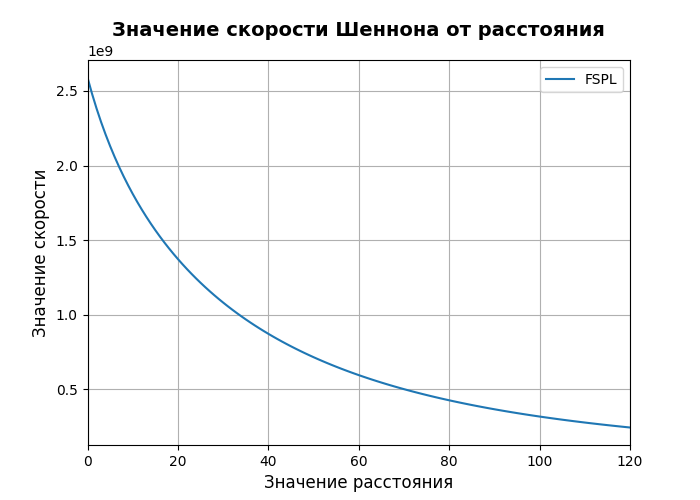
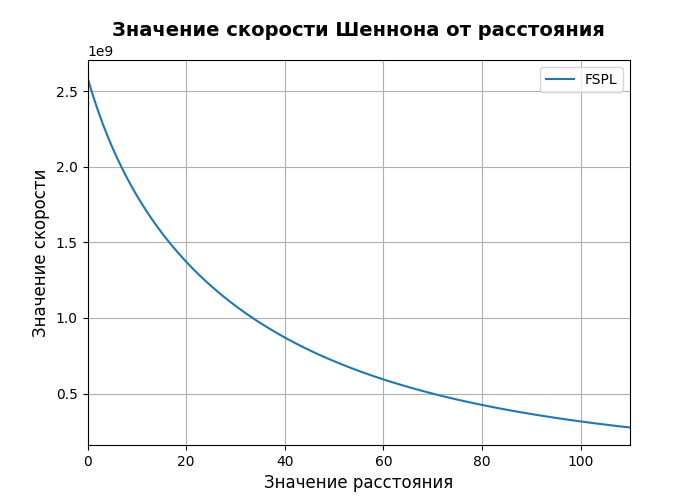
experimetns

diff --git a/main.py b/main.py
@@ -90,7 +90,7 @@ UMaLOS_shennon_dBm_list = []
 UMaNLOS_shennon_dBm_list = []
 InHLOS_shennon_dBm_list = []
 InHNLOS_shennon_dBm_list = []
-d = 130 # значение расстояния
+d = 120 # значение расстояния
 for i in range(10, d + 1):
   # вычисление значений скорости Шеннона для всех расстояний
   FSPL_shennon_dBm_list.append(shennon_dBm(SNR_W(FSPL_W(f[0], i), B, N, increase, Pt), B))
